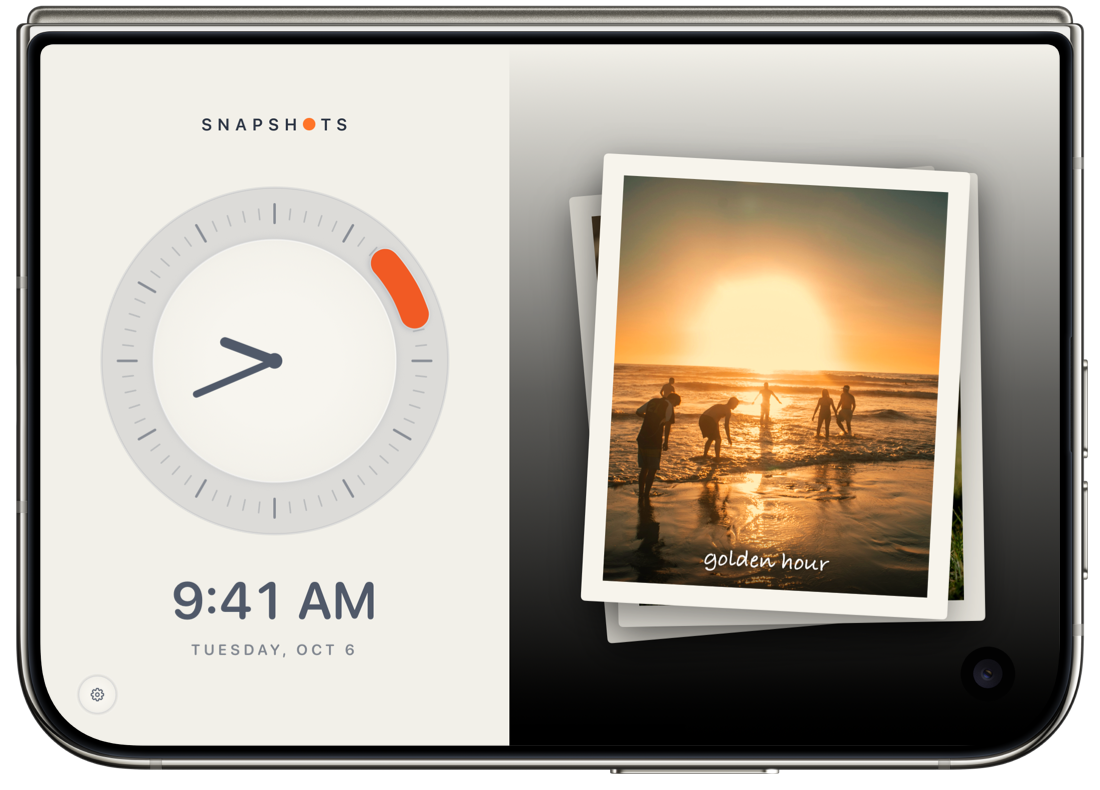
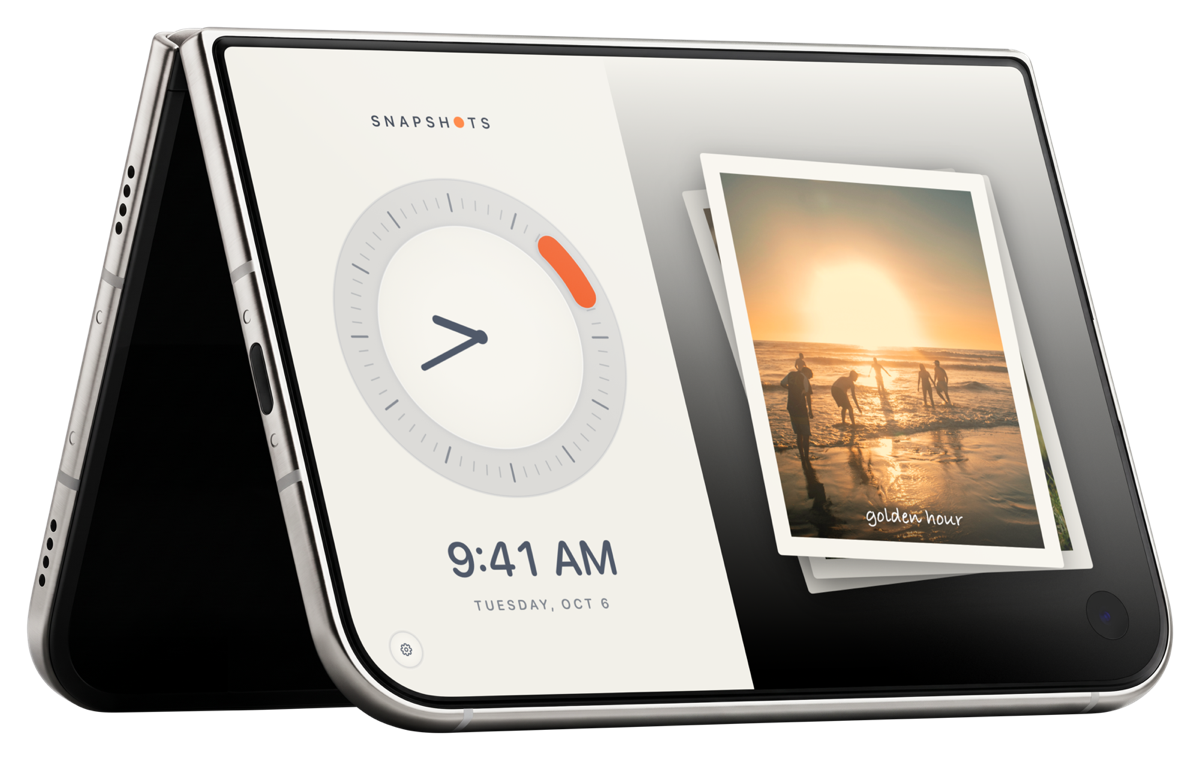
Homepage: a sharper Standing (tent) pose for iPhone Duo

diff --git a/app/index.html b/app/index.html
@@ -390,7 +390,7 @@ document.addEventListener('click', function (e) {
           <h3>A clock that shows your snapshots</h3>
           <p>Stand your iPhone Duo up like a tent and the front display becomes a clock, with your prints shuffling past beside the time. Star White by day, Night Sky by night.</p>
         </div>
-        <div class="art"><div class="device mock outer"><picture><source srcset="../duo/m/tent.avif?v=4" type="image/avif"><img src="../duo/m/tent.png?v=4" width="1100" height="790" alt="Snapshots on the front display of an iPhone Duo: a clock on the left and a small pile of prints on the right." loading="lazy"></picture></div></div>
+        <div class="art"><div class="device mock outer"><picture><source srcset="../duo/m/tent.avif?v=6" type="image/avif"><img src="../duo/m/tent.png?v=6" width="1200" height="760" alt="Snapshots on the front display of an iPhone Duo: a clock on the left and a small pile of prints on the right." loading="lazy"></picture></div></div>
       </article>
     </div>
   </div>
